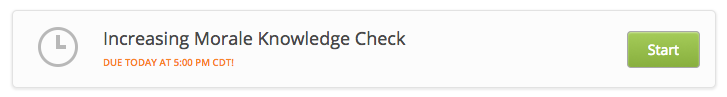
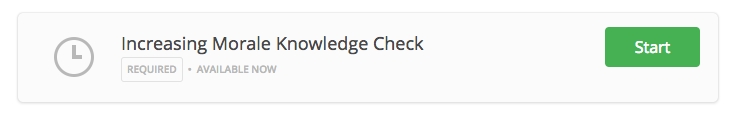
User_Guide/Update2

Changed region(s): [[0.0303, 0.2784, 0.575, 0.7113], [0.8171, 0.2165, 0.9684, 0.7113], [0.0, 0.8969, 0.9986, 0.9278]]

diff --git a/userguide/Assignments.rst b/userguide/Assignments.rst
@@ -7,7 +7,7 @@ Your assignments can be found in two different locations: the Lessons View and y
 Lessons View
 =============
 
-Your instructor may post an assignment to a lesson. The assignment title will display along with the due date and a "Start" button to view and begin your assignment.
+Your instructor may post an assignment to a lesson. The assignment title will display along with the due date and a "Start" button to view and begin your assignment. Some assignments may be required and can be differentiated by the "Required" label.
 
    .. image:: images/assignmentpost.png
 
